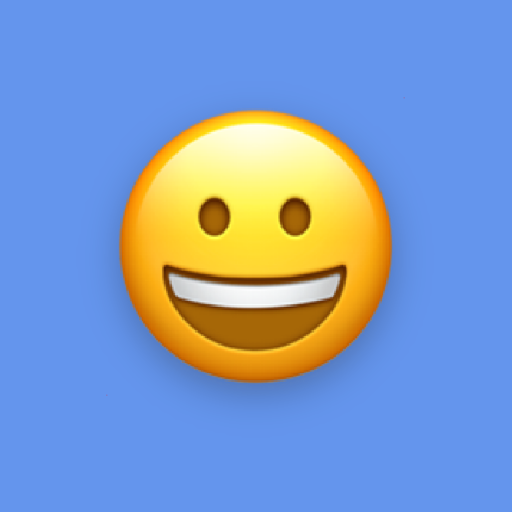
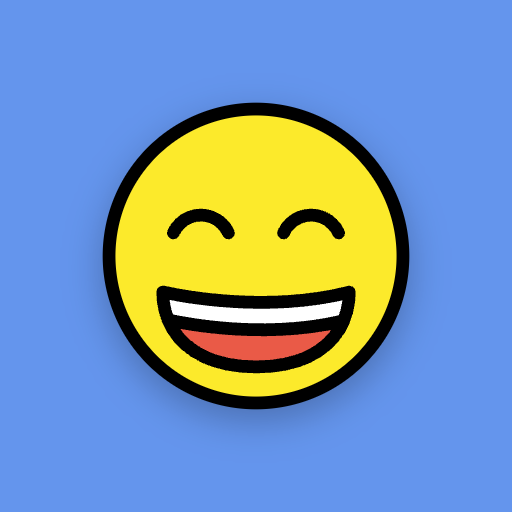
docs: use the OpenMoji smiley for the Marketplace image and credit it

Changed region(s): [[0.1875, 0.1875, 0.8125, 0.8438]]

diff --git a/README.md b/README.md
@@ -1,4 +1,4 @@
-# 😀 Statamic Emojis
+# 😄 Statamic Emojis
 
 A Statamic 6 addon that adds an emoji picker to the Control Panel: emoji fieldtypes, a Bard button,
 shortcode suggestions and, with **Pro**, custom emoji uploads. Emojis are **stored as Unicode** and can be
@@ -40,6 +40,7 @@ The picker is built on [vue-frimousse](https://vue-frimousse.robertshaw.id) and 
 - [Tests](#tests)
 - [Releasing](#releasing)
 - [License](#license)
+- [Credits](#credits)
 
 ## Editions
 
@@ -311,3 +312,11 @@ The repository needs **"Allow GitHub Actions to create and approve pull requests
 
 Statamic Emojis is commercial software: the free edition can be used free of charge, the Pro edition
 needs a license per site in production. See [LICENSE](LICENSE).
+
+## Credits
+
+The Marketplace image (`.github/marketplace.png`) uses the
+[😄 emoji (1F604)](https://openmoji.org/library/emoji-1F604/) by [OpenMoji](https://openmoji.org), the
+open-source emoji and icon project, licensed under
+[CC BY-SA 4.0](https://creativecommons.org/licenses/by-sa/4.0/). The image itself is available under the
+same license.
